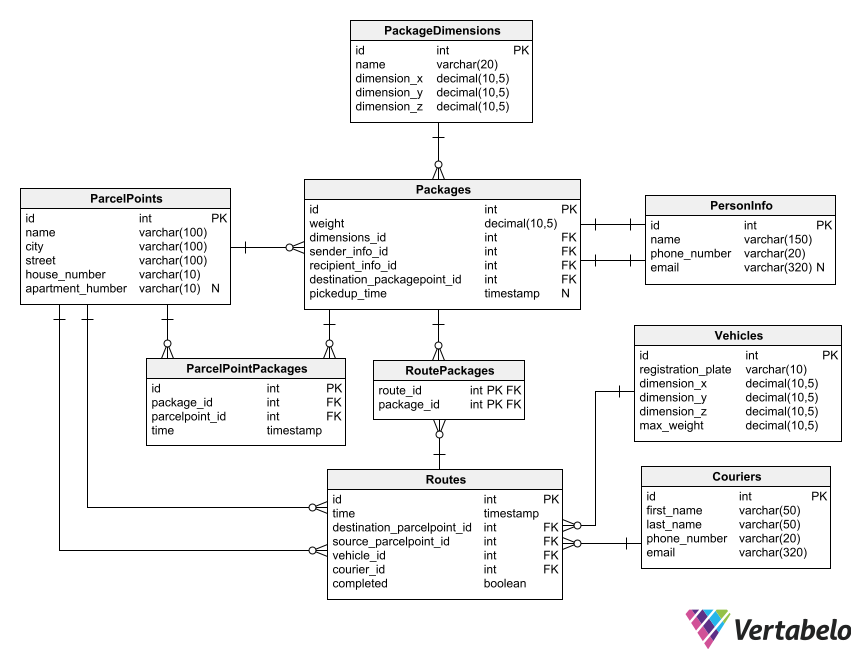
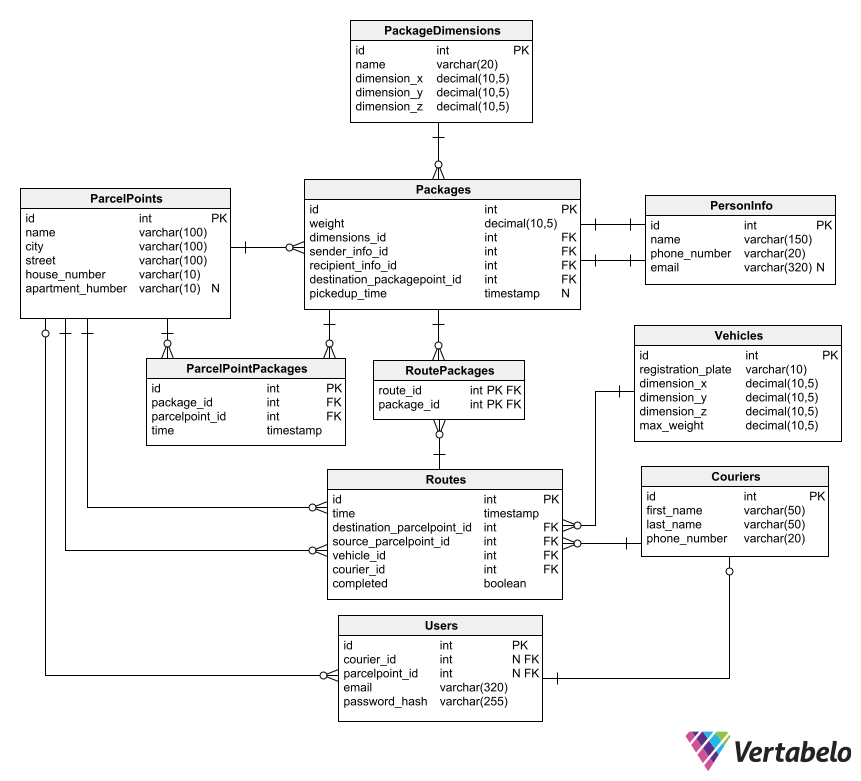
added users table + some backend stuff

diff --git a/front_end/src/components/Tracking.js b/front_end/src/components/Tracking.js
@@ -22,7 +22,7 @@ export function Tracking() {
                     <input style={{margin: '0.5em'}} type='submit' className="button **is-large is-success is-rounded**" value='Szukaj'/>
         </form>
         <div style = {{padding: '1em', margin: '1em', border: package_searched ? '2px solid darkseagreen' : 'none', borderRadius: '2em'}}>
-            {package_history.map((el,i) => 
+            {package_history == undefined ? "" : package_history.map((el,i) => 
             <div key = {"tracking_history_container_"+i} style = {{borderTop: i != 0 ? '1px solid lightgray': 'none'}} className="columns">
                 <div className="column" style={{padding : '1em'}} key = {"tracking_history_"+i+"_"+0}> 
                     {el[0]} 
@@ -32,7 +32,7 @@ export function Tracking() {
                 </div>
             </div>
             )}
-            {package_history.length == 0 && package_searched ? "Nie znaleziono przesyłki z takim numerem!" : ""}
+            {package_history == undefined || package_history.length == 0 && package_searched ? "Nie znaleziono przesyłki z takim numerem!" : ""}
         </div>
         </div>;
 }

diff --git a/front_end/src/components/NewPackage.js b/front_end/src/components/NewPackage.js
@@ -18,7 +18,7 @@ export function NewPackage() {
         APIService.register_package({weight, dimensions_id, recipient_name, recipient_phone_number, sender_name, sender_phone_number, 
             destination_packagepoint_id, source_packagepoint_id, recipient_email, sender_email})
         .then((response) => {
-            if (response != "error")
+            if (response != "error" && response != undefined)
                 alert("Paczka zarejestrowana. ID: " + response)
             else
                 alert("Wystąpił błąd. Paczka nie została zarejestrowana.")

diff --git a/back_end/app.py b/back_end/app.py
@@ -16,9 +16,9 @@ if __name__ == '__main__':
 
 @app.route('/tracking', methods=['POST'], strict_slashes=False)
 def get_package_history():
-    sql = "select * from packagetrackinghistory(" + request.json['package_id'] + ")"
+    sql = "select * from packagetrackinghistory(%s)"
     try:
-        pg_cur.execute(sql)
+        pg_cur.execute(sql, (request.json['package_id'],))
         pg_conn.commit()
     except BaseException:
         pg_conn.rollback()
@@ -28,30 +28,14 @@ def get_package_history():
 
 @app.route('/new_package', methods=['POST'], strict_slashes=False)
 def new_package():
-    sql = "select registerpackage(" + request.json['weight'] + ", " + request.json['dimensions_id'] + ", '" + request.json['recipient_name'] + "', '" + \
-        request.json['recipient_phone_number'] + "', '"+ request.json['sender_name'] + "', '" + request.json['sender_phone_number'] +"', " + \
-        request.json['destination_packagepoint_id'] + ", "+ request.json['source_packagepoint_id'] + ", '" + request.json['recipient_email'] + "', '" + request.json['sender_email'] + "');"
+    sql = "select registerpackage(%s, %s, '%s', '%s', '%s', '%s', %s, %s, '%s', '%s');"
     try:
-        pg_cur.execute(sql)
+        pg_cur.execute(sql, (request.json['weight'], request.json['dimensions_id'], request.json['recipient_name'], request.json['recipient_phone_number'], request.json['sender_name'],
+                            request.json['sender_phone_number'], request.json['destination_packagepoint_id'], request.json['source_packagepoint_id'], request.json['recipient_email'],
+                            request.json['sender_email'],))
         pg_conn.commit()
     except BaseException:
         pg_conn.rollback()
         return jsonify("error")
     data = pg_cur.fetchall()
     return jsonify(data)
-
-
-#@app.route('/insert_example', methods=['POST'])
-def insert_example(data):
-    sql = """insert into users.perceptions
-            select img_1, img_2, perception, choice, user_id, time
-            from json_to_recordset(%s) x (img_1 varchar(60),
-                                          img_2 varchar(60), 
-                                          perception varchar(60),
-                                          choice varchar(60), 
-                                          user_id varchar(100),
-                                          time varchar(100)
-            )
-        """
-    pg_cur.execute(sql, (json.dumps([data]),))
-    pg_conn.commit()
